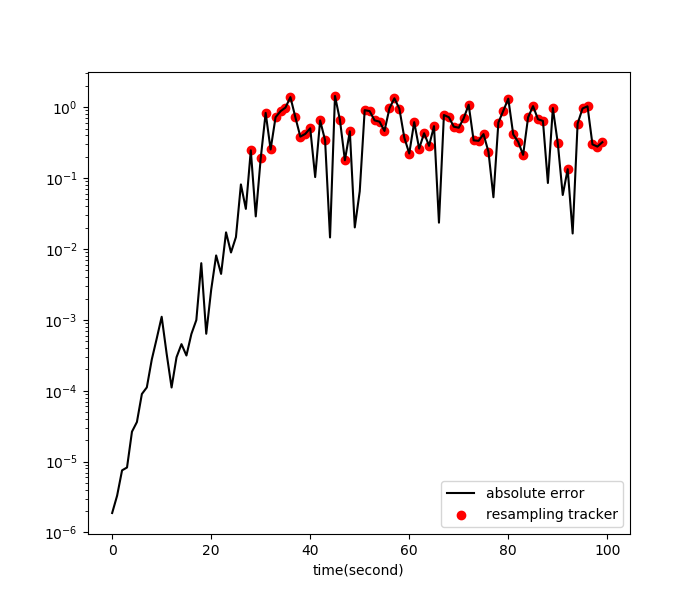
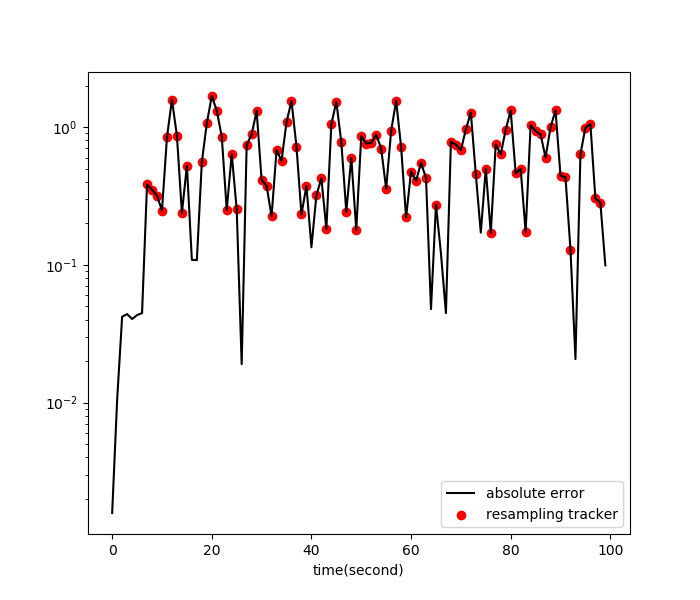
3 attractor resampling

diff --git a/python/modules/filter.py b/python/modules/filter.py
@@ -170,7 +170,7 @@ class ParticleFilter(Filter):
         return len(np.unique(indices))
 
 
-    def resample(self, threshold_factor = 0.1, method = 'systematic'):
+    def resample(self, threshold_factor = 0.1, method = 'systematic', **params):
         """
         Description:
             Performs resampling
@@ -182,7 +182,7 @@ class ParticleFilter(Filter):
         # resample if effective particle count criterion is met
         if 1.0/(self.weights**2).sum() < threshold_factor*self.particle_count:
             indices = np.random.choice(self.particle_count, self.particle_count, p = self.weights)
-            getattr(self, method + '_resample')()
+            getattr(self, method + '_resample')(**params)
             self.resampling_tracker.append(True)
             return True # resampling occurred
         self.resampling_tracker.append(False)
@@ -218,7 +218,7 @@ class ParticleFilter(Filter):
         return self.computed_trajectory
 
     @ut.timer
-    def update(self, observations, threshold_factor = 0.1, method = 'mean'):
+    def update(self, observations, threshold_factor = 0.1, method = 'mean', resampling_method = 'systematic', **params):
         """
         Description:
             Updates using all the obeservations using self.compute_weights and self.resample
@@ -232,7 +232,7 @@ class ParticleFilter(Filter):
         self.observed_path = observations
         for observation in self.observed_path:
             self.compute_weights(observation = observation)
-            self.resample(threshold_factor = threshold_factor)
+            self.resample(threshold_factor = threshold_factor, method = resampling_method, **params)
             if method is not None:
                 self.compute_trajectory(method = method)
                 self.current_time += 1
@@ -276,16 +276,47 @@ class AttractorPF(ParticleFilter):
         self.sampler = attractor_sampler
         super().__init__(model=model, particle_count=particle_count, save_trajectories=save_trajectories)
 
-    def attractor_resample(self):
+    def attractor_resample(self, **params):
         """
         Description:
             Performs attractor resampling
         """
-        self.particles = self.sampler.resample(self.particles)
+        for i, weight in enumerate(self.weights):
+            if weight < 1.0/self.particle_count:
+                self.particles[i] = self.sampler.resample([self.particles[i]])[0]
         self.weights = np.ones(self.particle_count)/self.particle_count
 
-    def resample(self, threshold_factor = 0.1, method = 'attractor'):
-        super().resample(threshold_factor=threshold_factor, method=method)
+    def attractor2_resample(self, **params):
+        """
+        Description:
+            Performs attractor resampling
+        """
+        for i, weight in enumerate(self.weights):
+            if weight < 1.0/self.particle_count:
+                self.particles[i] = self.sampler.resample2([self.particles[i]])[0]
+        self.weights = np.ones(self.particle_count)/self.particle_count
+
+    def attractor3_resample(self, **params):
+        """
+        Description:
+            Performs attractor resampling
+        """
+        fn = lambda x: params['func'](0, params['observation'], x)
+        for i, weight in enumerate(self.weights):
+            if weight < 1.0/self.particle_count:
+                self.particles[i] = self.sampler.resample3([self.particles[i]], fn)[0]
+        self.weights = np.ones(self.particle_count)/self.particle_count
+
+    def update(self, observations, threshold_factor = 0.1, method = 'mean', resampling_method = 'attractor', **params):
+        self.current_time = 0
+        self.observed_path = observations
+        for observation in self.observed_path:
+            self.compute_weights(observation = observation)
+            self.resample(threshold_factor = threshold_factor, method = resampling_method, **{**params, **{'observation': observation}})
+            if method is not None:
+                self.compute_trajectory(method = method)
+                self.current_time += 1
+        return self.weights
 
 
 

diff --git a/python/modules/attract.py b/python/modules/attract.py
@@ -367,6 +367,7 @@ class AttractorSampler:
                 diff = np.array(pt) - seed
                 dist[i] = np.dot(diff, diff)
             cl_seeds[j] = self.seed_idx[np.argmin(dist)]
+            #print('min dist = {}'.format(min(dist)))
         return cl_seeds
 
     #@ut.timer
@@ -388,6 +389,55 @@ class AttractorSampler:
             ensemble[i*num_pts: (i+1)*num_pts] = self.points[np.random.choice(allot, size=num_pts)]
         return ensemble
 
+
+    def sample_from_cells2(self, pts, cell_idx, num_pts=1):
+        """
+        Description:
+            Samples points from a list of Voronoi cells w.r.t minimum distance
+        Args:
+            pts: points to be replaced
+            cells: list of indices to Voronoi cells from which points are to be sampled
+            num_pts: number of points to be sampled from each cell, default = 1
+
+        Returns:
+            list of randomly sampled points
+        """
+        ensemble = np.zeros((len(cell_idx) * num_pts, self.dim), dtype='float64')
+        for i, cell_id in enumerate(cell_idx):
+            allot = getattr(self.db.allotments, 'cell_' + str(cell_id)).read().tolist()
+            cell_pts = self.points[np.array(allot, dtype='int32').flatten()]
+            dist = np.ones(len(cell_pts), dtype='float64')
+            for j, cell_pt in enumerate(cell_pts):
+                diff = cell_pt - pts[i]
+                dist[j] = np.dot(diff, diff)
+            ensemble[i] = cell_pts[np.argmin(dist)]
+            print('min dist: {}, pt: {}, cell_pt: {}'.format(min(dist), pts[i], ensemble[i]))
+        return ensemble
+
+
+    def sample_from_cells3(self, pts, cell_idx, func, num_pts=1):
+        """
+        Description:
+            Samples points from a list of Voronoi cells w.r.t minimum distance
+        Args:
+            pts: points to be replaced
+            cells: list of indices to Voronoi cells from which points are to be sampled
+            num_pts: number of points to be sampled from each cell, default = 1
+
+        Returns:
+            list of randomly sampled points
+        """
+        ensemble = np.zeros((len(cell_idx) * num_pts, self.dim), dtype='float64')
+        for i, cell_id in enumerate(cell_idx):
+            allot = getattr(self.db.allotments, 'cell_' + str(cell_id)).read().tolist()
+            cell_pts = self.points[np.array(allot, dtype='int32').flatten()]
+            weights = np.array([func(cell_pt) for cell_pt in cell_pts])
+            ensemble[i] = cell_pts[np.argmax(weights)]
+            print('max weight: {}, pt: {}, cell_pt: {}'.format(max(weights), pts[i], ensemble[i]))
+        return ensemble
+
+
+
     @ut.timer
     def resample(self, pts):
         """
@@ -402,3 +452,34 @@ class AttractorSampler:
         """
         cell_idx = self.closest_seeds(pts)
         return self.sample_from_cells(cell_idx)
+
+
+    @ut.timer
+    def resample2(self, pts):
+        """
+        Description:
+            Replaces a list of points with points sampled from their closest Voronoi cells
+
+        Args:
+            pts: the list of points to be replaced
+
+        Returns:
+            list of replacement/resampled points
+        """
+        cell_idx = self.closest_seeds(pts)
+        return self.sample_from_cells2(pts, cell_idx)
+
+    @ut.timer
+    def resample3(self, pts, func):
+        """
+        Description:
+            Replaces a list of points with points sampled from their closest Voronoi cells
+
+        Args:
+            pts: the list of points to be replaced
+
+        Returns:
+            list of replacement/resampled points
+        """
+        cell_idx = self.closest_seeds(pts)
+        return self.sample_from_cells3(pts, cell_idx, func)

diff --git a/python/experiments/AttractorPF/apf5.py b/python/experiments/AttractorPF/apf5.py
@@ -26,10 +26,10 @@ observed_path = model.observation.generate_path(hidden_path)
 """
 Solution using an attractor particle filter
 """
-db_path = str(script_path.parent.parent.parent) + '/data/henon_attractor.h5' #_14_3_large
+db_path = str(script_path.parent.parent.parent) + '/data/henon_attractor_14_3_large.h5' #
 attractor_sampler = atr.AttractorSampler(db_path = db_path)
 apf = fl.AttractorPF(model, particle_count = 50, attractor_sampler = attractor_sampler)
-apf.update(observed_path, threshold_factor = 0.1, method = 'mean')
+apf.update(observed_path, threshold_factor = 0.1, method = 'mean', resampling_method = 'attractor', func = model5.conditional_pdf_o)
 
 # plot trajectories
 model = 'model5'

diff --git a/python/models/model5.py b/python/models/model5.py
@@ -20,7 +20,7 @@ A 2D non-linear problem (Henon map)
 a, b, eps  = 1.4, 0.3, 0.0
 mu, id, zero =  np.zeros(2), np.identity(2), np.zeros(2)
 x0 = (0.5086958043266177, 0.126731276358114)
-prior = sm.Simulation(algorithm = lambda *args: np.random.multivariate_normal(x0, 0.0000000001*id))
+prior = sm.Simulation(algorithm = lambda *args: np.random.multivariate_normal(x0,0.0001*id))
 process_noise = sm.Simulation(algorithm = lambda *args: np.random.multivariate_normal(mu, eps*id))
 func_h = lambda k, x, noise: np.array([1.0 - a*x[0]**2 + x[1], b*x[0]]) + noise
 conditional_pdf_h = lambda k, x, past: scipy.stats.multivariate_normal.pdf(x, mean = func_h(k, past, zero), cov = eps*id)
